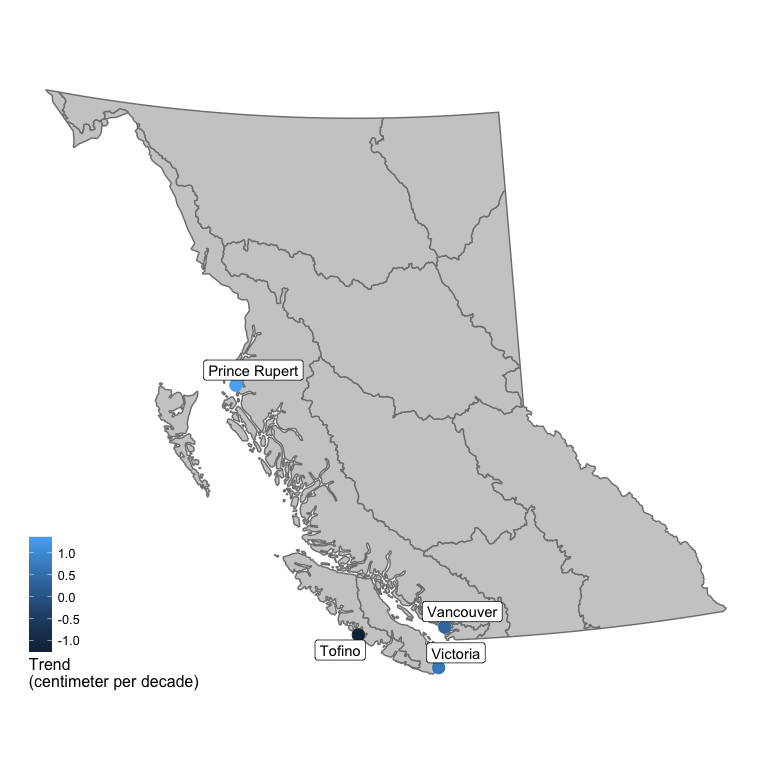
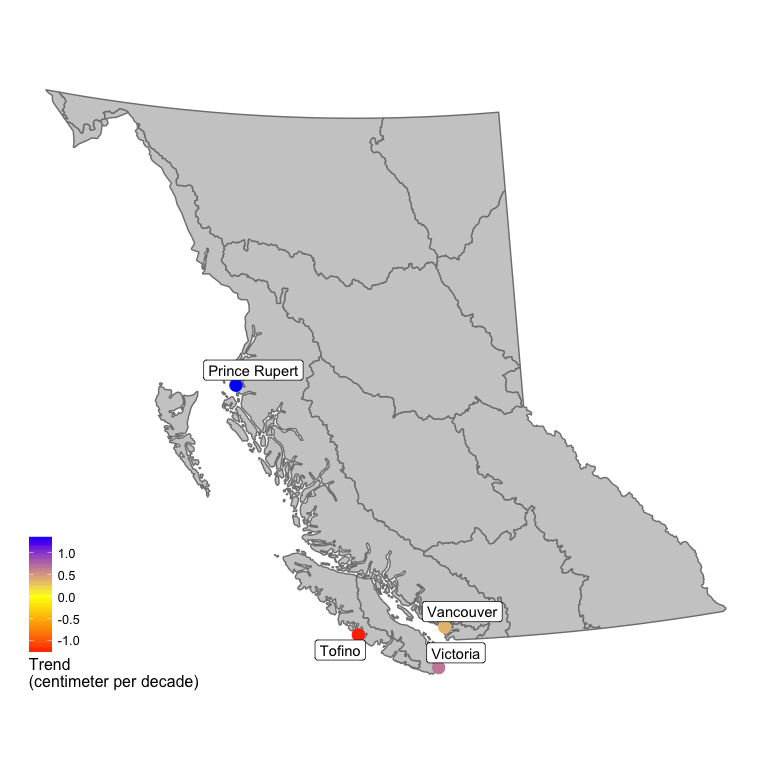
add low, mid and high colors to maps

diff --git a/README.md b/README.md
@@ -26,7 +26,7 @@ plot_estimates(cccharts::precipitation, x = "Ecoprovince",
 ![](README-unnamed-chunk-2-1.png)
 
 ``` r
-map_estimates(cccharts::sea_level_station, station = TRUE)
+map_estimates(cccharts::sea_level_station, station = TRUE, low = "red", high = "blue")
 ```
 
 ![](README-unnamed-chunk-3-1.png)
